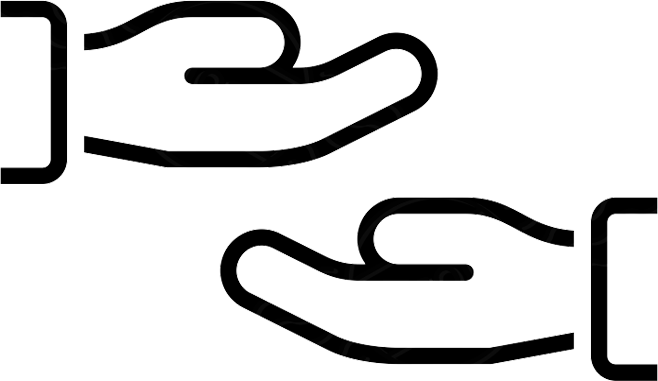
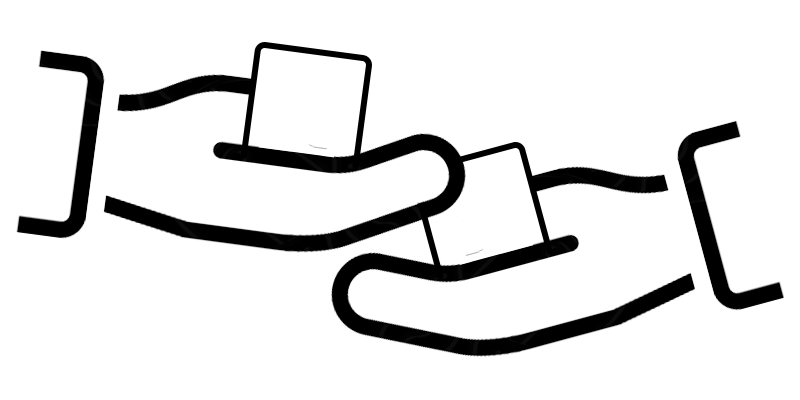
add memory cards + placeholder

Changed region(s): [[0.0, 0.0, 1.0, 1.0]]

diff --git a/database/seeds/CardTableSeeder.php b/database/seeds/CardTableSeeder.php
@@ -15,44 +15,44 @@ class CardTableSeeder extends Seeder
 
             #Memorie
 	    	['title'=>'Shuffle','description'=>'Haal alle kaarten op het veld door elkaar.','image'=>'shuffle.png','FK_game'=>'1','FK_categorie'=>'1','approved'=>1,],
-            ['title'=>'Goed Doel','description'=>'De speler met de minste paren geeft 1 paar aan de tegenstander.','image'=>'shuffle.png','FK_game'=>'1','FK_categorie'=>'1','approved'=>1,],
-            ['title'=>'Overslaan','description'=>'Sla een beurt over.','image'=>'shuffle.png','FK_game'=>'1','FK_categorie'=>'3','approved'=>1,],
-            ['title'=>'Verwarring','description'=>'Het eerstvolgende paar is voor je tegenstander.','image'=>'shuffle.png','FK_game'=>'1','FK_categorie'=>'3','approved'=>1,],
-            ['title'=>'Eerlijk spelen','description'=>'Heeft je tegenstander dubbel zoveel paren? Dan krijg jij er 1.','image'=>'shuffle.png','FK_game'=>'1','FK_categorie'=>'2','approved'=>1,],
-            ['title'=>'Ongeluksnummer','description'=>'Heb je 3 paren? Dan begint het spel opnieuw.','image'=>'shuffle.png','FK_game'=>'1','FK_categorie'=>'4','approved'=>1,],
-            ['title'=>'Ga ervoor!','description'=>'Je mag zoveel paren nemen als je wilt, maar maak je een fout moet je alle paren aan je tegenstander geven','image'=>'shuffle.png','FK_game'=>'1','FK_categorie'=>'1','approved'=>1,],
-            ['title'=>'Verloren kaart','description'=>'1 kaart op het veld moet weg.','image'=>'shuffle.png','FK_game'=>'1','FK_categorie'=>'1','approved'=>1,],
-            ['title'=>'Gellukige verjaardag!','description'=>'Je krijgt 1 paar van je tegenstander.','image'=>'shuffle.png','FK_game'=>'1','FK_categorie'=>'2','approved'=>1,],
-            ['title'=>'Alles of niets','description'=>'Volgende beurt een foute combinatie? Dan moet je volgende beurt al je kaarten terugleggen.','image'=>'shuffle.png','FK_game'=>'1','FK_categorie'=>'1','approved'=>1,],
-            ['title'=>'Valsspelen?','description'=>'Je mag 1 extra kaart omdraaien volgende beurt.','image'=>'shuffle.png','FK_game'=>'1','FK_categorie'=>'2','approved'=>1,],
-            ['title'=>'Geheugenverlies','description'=>'2 kaarten op het veld mag je van plaats wisselen.','image'=>'shuffle.png','FK_game'=>'1','FK_categorie'=>'1','approved'=>1,],
-            ['title'=>'Oeps!','description'=>'Gooi een gevonden paar weg.','image'=>'shuffle.png','FK_game'=>'1','FK_categorie'=>'3','approved'=>1,],
-            ['title'=>'Eerlijk delen','description'=>'Wissel de gevonden paren met elkaar.','image'=>'shuffle.png','FK_game'=>'1','FK_categorie'=>'1','approved'=>1,],
-            ['title'=>'Verblind','description'=>'Volgende beurt mag je tegenstander niet meekijken.','image'=>'shuffle.png','FK_game'=>'1','FK_categorie'=>'1','approved'=>1,],
-            ['title'=>'Dikke pech','description'=>'In de volgende 2 beurten geen paar genomen? Geef dan een paar aan je tegenstander.','image'=>'shuffle.png','FK_game'=>'1','FK_categorie'=>'3','approved'=>1,],
+            ['title'=>'Goed Doel','description'=>'De speler met de minste paren geeft 1 paar aan de tegenstander.','image'=>'geefaantegen.png','FK_game'=>'1','FK_categorie'=>'1','approved'=>1,],
+            ['title'=>'Overslaan','description'=>'Sla een beurt over.','image'=>'skipturn.png','FK_game'=>'1','FK_categorie'=>'3','approved'=>1,],
+            ['title'=>'Verwarring','description'=>'Het eerstvolgende paar is voor je tegenstander.','image'=>'volgendepaartegenstander.png','FK_game'=>'1','FK_categorie'=>'3','approved'=>1,],
+            ['title'=>'Eerlijk spelen','description'=>'Heeft je tegenstander dubbel zoveel paren? Dan krijg jij er 1.','image'=>'dubbleafgeven.png','FK_game'=>'1','FK_categorie'=>'2','approved'=>1,],
+            ['title'=>'Ongeluksnummer','description'=>'Heb je 3 paren? Dan begint het spel opnieuw.','image'=>'restart.png','FK_game'=>'1','FK_categorie'=>'4','approved'=>1,],
+            ['title'=>'Ga ervoor!','description'=>'Je mag zoveel paren nemen als je wilt, maar maak je een fout moet je alle paren aan je tegenstander geven','image'=>'greed.png','FK_game'=>'1','FK_categorie'=>'1','approved'=>1,],
+            ['title'=>'Verloren kaart','description'=>'1 kaart op het veld moet weg.','image'=>'weggooien.png','FK_game'=>'1','FK_categorie'=>'1','approved'=>1,],
+            ['title'=>'Gellukige verjaardag!','description'=>'Je krijgt 1 paar van je tegenstander.','image'=>'geefaantegen.png','FK_game'=>'1','FK_categorie'=>'2','approved'=>1,],
+            ['title'=>'Alles of niets','description'=>'Volgende beurt een foute combinatie? Dan moet je volgende beurt al je kaarten terugleggen.','image'=>'allesofniets.png','FK_game'=>'1','FK_categorie'=>'1','approved'=>1,],
+            ['title'=>'Valsspelen?','description'=>'Je mag 1 extra kaart omdraaien volgende beurt.','image'=>'extracard.png','FK_game'=>'1','FK_categorie'=>'2','approved'=>1,],
+            ['title'=>'Geheugenverlies','description'=>'2 kaarten op het veld mag je van plaats wisselen.','image'=>'wisselvanplek.png','FK_game'=>'1','FK_categorie'=>'1','approved'=>1,],
+            ['title'=>'Oeps!','description'=>'Gooi een gevonden paar weg.','image'=>'prullenbak.png','FK_game'=>'1','FK_categorie'=>'3','approved'=>1,],
+            ['title'=>'Eerlijk delen','description'=>'Wissel de gevonden paren met elkaar.','image'=>'wisselen.png','FK_game'=>'1','FK_categorie'=>'1','approved'=>1,],
+            ['title'=>'Verblind','description'=>'Volgende beurt mag je tegenstander niet meekijken.','image'=>'nolook.png','FK_game'=>'1','FK_categorie'=>'1','approved'=>1,],
+            ['title'=>'Dikke pech','description'=>'In de volgende 2 beurten geen paar genomen? Geef dan een paar aan je tegenstander.','image'=>'volgendepaartegenstander.png','FK_game'=>'1','FK_categorie'=>'3','approved'=>1,],
 
             #Vier op een rij
-            ['title'=>'2 voor de prijs van 1','description'=>'Je mag twee schijven steken deze beurt.','image'=>'shuffle.png','FK_game'=>'2','FK_categorie'=>'2','approved'=>1,],
-            ['title'=>'Geheugenverlies','description'=>'Sla een beurt over.','image'=>'shuffle.png','FK_game'=>'2','FK_categorie'=>'3','approved'=>1,],
-            ['title'=>'Delen?','description'=>'Je mag de schijf van je tegenstander zijn beurt zelf plaatsen.','image'=>'shuffle.png','FK_game'=>'2','FK_categorie'=>'2','approved'=>1,],
-            ['title'=>'Valsspelen','description'=>'Als vier schijven met dezelfde kleur in contact staan heb je gewonnen. Ze moeten niet in een rij staan.','image'=>'shuffle.png','FK_game'=>'2','FK_categorie'=>'4','approved'=>1,],
-            ['title'=>'Tijd terugspoelen!','description'=>'Haal de laatst geplaatste schijf eruit.','image'=>'shuffle.png','FK_game'=>'3','FK_categorie'=>'1','approved'=>1,],
-            ['title'=>'Wisselen','description'=>'Wissel van kleur!','image'=>'shuffle.png','FK_game'=>'3','FK_categorie'=>'1','approved'=>1,],
+            ['title'=>'2 voor de prijs van 1','description'=>'Je mag twee schijven steken deze beurt.','image'=>'placeholder.png','FK_game'=>'2','FK_categorie'=>'2','approved'=>1,],
+            ['title'=>'Geheugenverlies','description'=>'Sla een beurt over.','image'=>'placeholder.png','FK_game'=>'2','FK_categorie'=>'3','approved'=>1,],
+            ['title'=>'Delen?','description'=>'Je mag de schijf van je tegenstander zijn beurt zelf plaatsen.','image'=>'placeholder.png','FK_game'=>'2','FK_categorie'=>'2','approved'=>1,],
+            ['title'=>'Valsspelen','description'=>'Als vier schijven met dezelfde kleur in contact staan heb je gewonnen. Ze moeten niet in een rij staan.','image'=>'placeholder.png','FK_game'=>'2','FK_categorie'=>'4','approved'=>1,],
+            ['title'=>'Tijd terugspoelen!','description'=>'Haal de laatst geplaatste schijf eruit.','image'=>'placeholder.png','FK_game'=>'3','FK_categorie'=>'1','approved'=>1,],
+            ['title'=>'Wisselen','description'=>'Wissel van kleur!','image'=>'placeholder.png','FK_game'=>'3','FK_categorie'=>'1','approved'=>1,],
 
             #Monopoly
-            ['title'=>'Donatie','description'=>'Krijg 100 euro!','image'=>'shuffle.png','FK_game'=>'3','FK_categorie'=>'2','approved'=>1,],
-            ['title'=>'Uitzetting','description'=>'Je mag een huis van je tegenstander nemen.','image'=>'shuffle.png','FK_game'=>'3','FK_categorie'=>'2','approved'=>1,],
-            ['title'=>'Overslaan','description'=>'Sla een beurt over.','image'=>'shuffle.png','FK_game'=>'3','FK_categorie'=>'3','approved'=>1,],
+            ['title'=>'Donatie','description'=>'Krijg 100 euro!','image'=>'placeholder.png','FK_game'=>'3','FK_categorie'=>'2','approved'=>1,],
+            ['title'=>'Uitzetting','description'=>'Je mag een huis van je tegenstander nemen.','image'=>'placeholder.png','FK_game'=>'3','FK_categorie'=>'2','approved'=>1,],
+            ['title'=>'Overslaan','description'=>'Sla een beurt over.','image'=>'placeholder.png','FK_game'=>'3','FK_categorie'=>'3','approved'=>1,],
 
             #Dammen
-            ['title'=>'Je slag slaan','description'=>'Verwijder een schijf van de tegenstander.','image'=>'shuffle.png','FK_game'=>'4','FK_categorie'=>'2','approved'=>1,],
-            ['title'=>'Jouw beurt?','description'=>'Verplaats een schijf van de tegenstander.','image'=>'shuffle.png','FK_game'=>'4','FK_categorie'=>'2','approved'=>1,],
-            ['title'=>'Overslaan','description'=>'Sla een beurt over.','image'=>'shuffle.png','FK_game'=>'4','FK_categorie'=>'3','approved'=>1,],
+            ['title'=>'Je slag slaan','description'=>'Verwijder een schijf van de tegenstander.','image'=>'placeholder.png','FK_game'=>'4','FK_categorie'=>'2','approved'=>1,],
+            ['title'=>'Jouw beurt?','description'=>'Verplaats een schijf van de tegenstander.','image'=>'placeholder.png','FK_game'=>'4','FK_categorie'=>'2','approved'=>1,],
+            ['title'=>'Overslaan','description'=>'Sla een beurt over.','image'=>'placeholder.png','FK_game'=>'4','FK_categorie'=>'3','approved'=>1,],
 
             #Schaken
-            ['title'=>'Je slag slaan','description'=>'Verwijder een schijf van je tegenstander.','image'=>'shuffle.png','FK_game'=>'5','FK_categorie'=>'2','approved'=>1,],
-            ['title'=>'Jouw beurt?','description'=>'Verplaats een schijf van je tegenstander.','image'=>'shuffle.png','FK_game'=>'5','FK_categorie'=>'2','approved'=>1,],
-            ['title'=>'Overslaan','description'=>'Sla een beurt over.','image'=>'shuffle.png','FK_game'=>'5','FK_categorie'=>'3','approved'=>1,],
+            ['title'=>'Je slag slaan','description'=>'Verwijder een schijf van je tegenstander.','image'=>'placeholder.png','FK_game'=>'5','FK_categorie'=>'2','approved'=>1,],
+            ['title'=>'Jouw beurt?','description'=>'Verplaats een schijf van je tegenstander.','image'=>'placeholder.png','FK_game'=>'5','FK_categorie'=>'2','approved'=>1,],
+            ['title'=>'Overslaan','description'=>'Sla een beurt over.','image'=>'placeholder.png','FK_game'=>'5','FK_categorie'=>'3','approved'=>1,],
 
 	    ]);
     }
